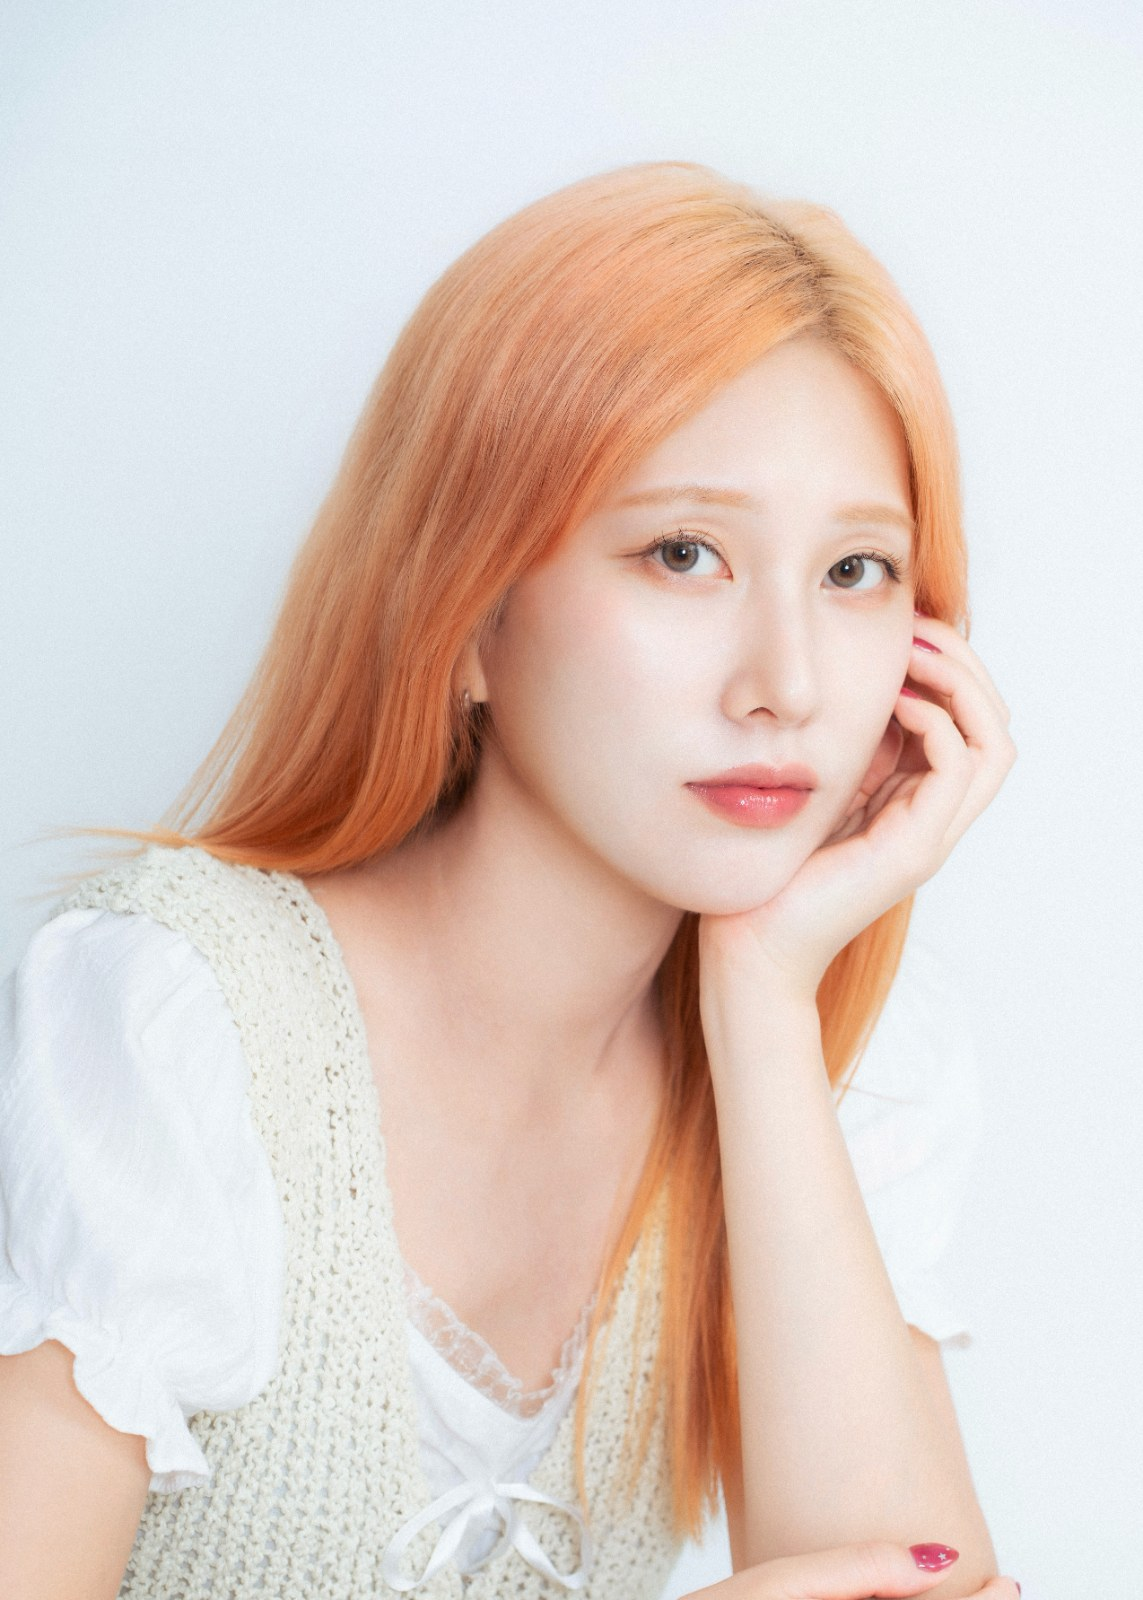
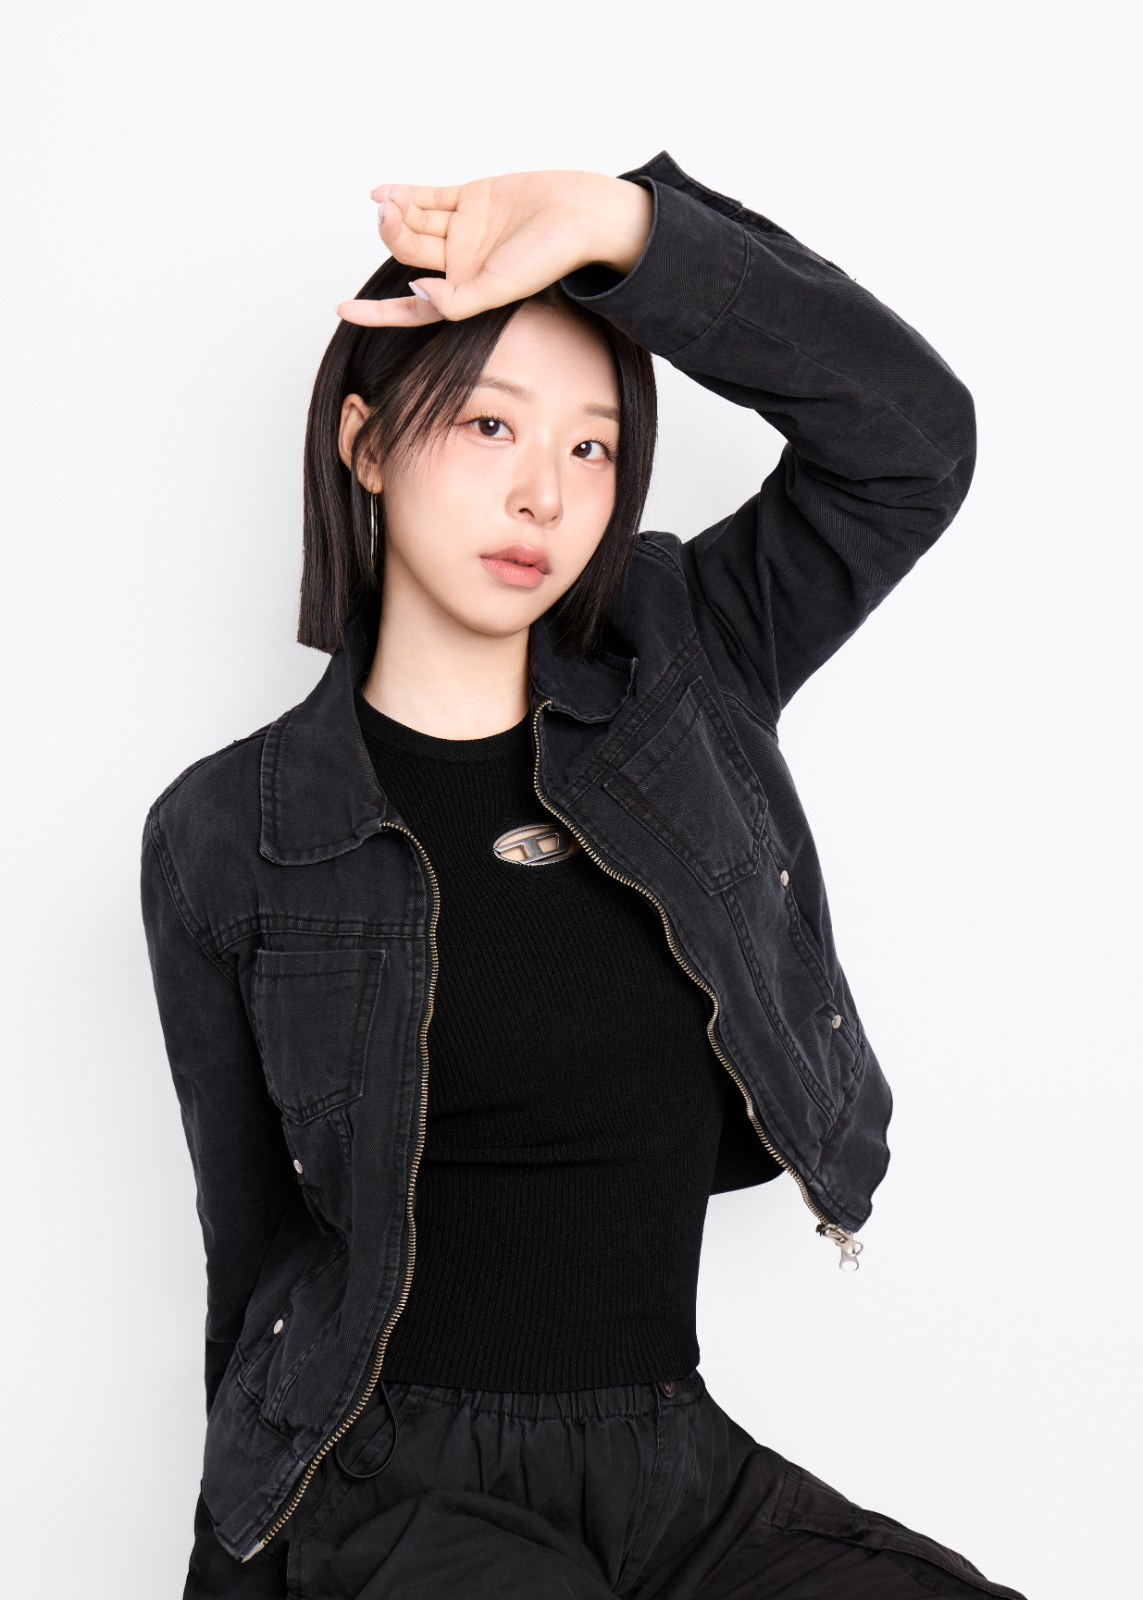
현장 편집 (2026. 11. 16. 오후 4:21:32)

diff --git a/js/content.js b/js/content.js
@@ -1,5 +1,5 @@
 /* ============================================================
-   WE4D 홈페이지 — 콘텐츠 설정 파일  (현장 편집에서 2026. 11. 16. 오후 4:18:28 저장)
+   WE4D 홈페이지 — 콘텐츠 설정 파일  (현장 편집에서 2026. 11. 16. 오후 4:21:28 저장)
    ============================================================ */
 
 const SITE = {
@@ -210,7 +210,12 @@ const SITE = {
     "#lessonPanes > div:nth-of-type(2) > div:nth-of-type(1) > div:nth-of-type(1) > p": 911
   },
   "fonts": {},
-  "moves": {},
+  "moves": {
+    "#inst-dance > div:nth-of-type(2) > div > button:nth-of-type(2) > div:nth-of-type(1) > img": [
+      4,
+      0
+    ]
+  },
   "blog": "https://blog.naver.com/we4d_academy_",
   "blogName": "blog.naver.com/we4d_academy_",
   "place": "https://naver.me/xl0DWFwD"
@@ -353,7 +358,7 @@ const INSTRUCTORS = [
     "kr": "새 선생님",
     "role": "TRAINER",
     "title": "",
-    "photo": "assets/inst/_t.jpg",
+    "photo": "assets/inst/_t_.jpg",
     "q": "",
     "career": [],
     "focus": "",
@@ -376,10 +381,10 @@ const INSTRUCTORS = [
   {
     "cat": "dance",
     "en": "KIM JEONGWON",
-    "kr": "김정원",
+    "kr": "장윤정",
     "role": "TRAINER",
     "title": "DANCE TRAINER",
-    "photo": "assets/inst/_t.jpg",
+    "photo": "assets/inst/_t_.jpg",
     "q": "",
     "career": [],
     "focus": "댄스",
